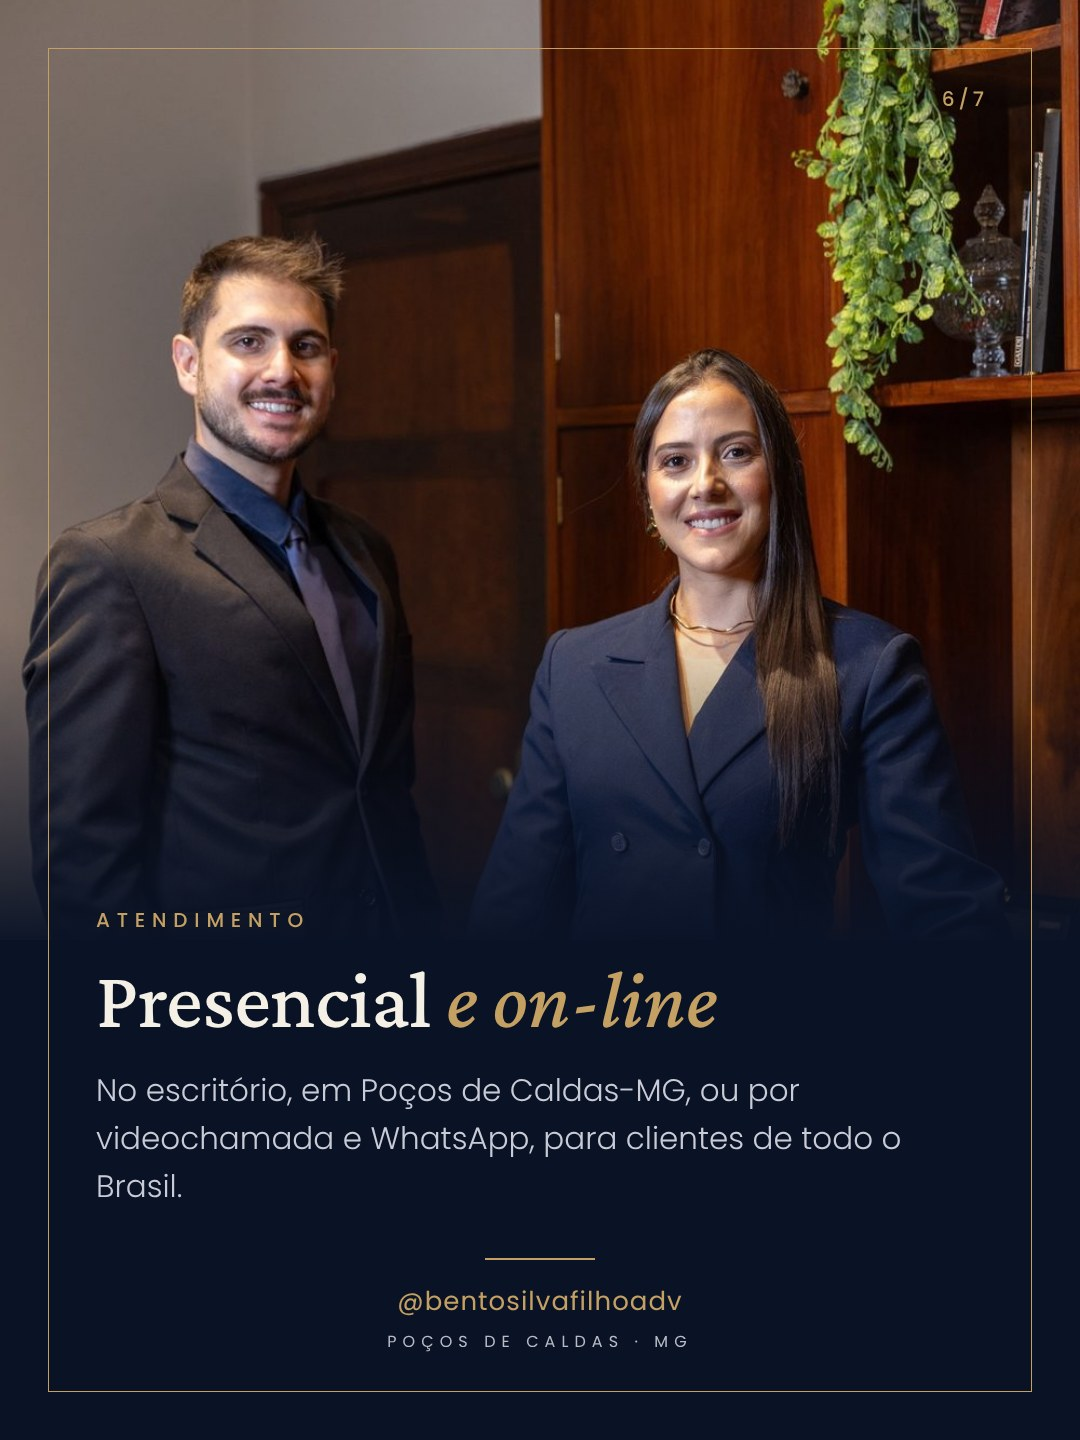
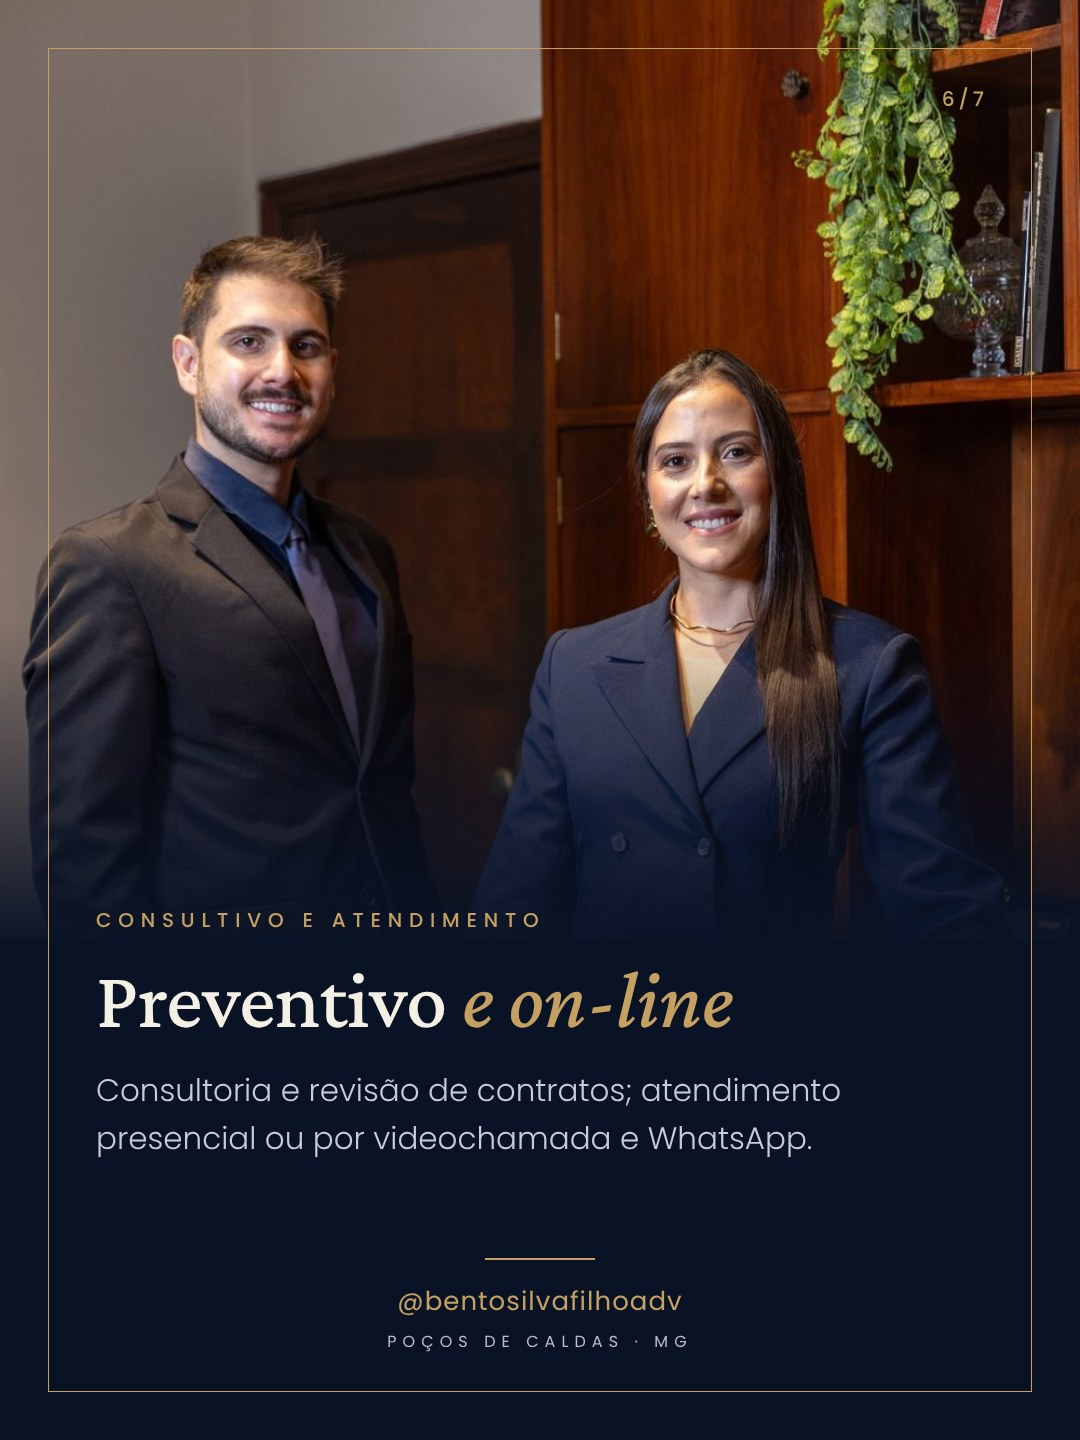
Carrossel fixado de 26/11 com todas as áreas; retirado o nome da sociedade atual do site
Claude-Session: https://claude.ai/code/session_019yFdNPbXaqafi1aGd5nU4B

Changed region(s): [[0.0917, 0.75, 0.825, 0.8438], [0.1833, 0.625, 0.6722, 0.7188], [0.0917, 0.625, 0.275, 0.6562]]

diff --git a/index.html b/index.html
@@ -448,7 +448,7 @@ a:focus-visible,button:focus-visible{outline:2px solid var(--gold);outline-offse
     <p>Bento &amp; Silva Filho Advogados · Av. Dr. David Benedito Ottoni, 645, sala 02 · Jardim dos Estados · Poços de Caldas-MG</p>
     <p><a href="politica-de-privacidade.html">Política de privacidade</a> · <a href="politica-de-privacidade.html#cookies" data-cookies>Cookies</a> · <a href="https://www.instagram.com/bentosilvafilhoadv/" target="_blank" rel="noopener">Instagram</a> · <a href="https://www.facebook.com/bentosilvafilhoadv" target="_blank" rel="noopener">Facebook</a> · <a href="https://www.linkedin.com/company/bentosilvafilhoadv/" target="_blank" rel="noopener">LinkedIn</a> · <a href="artigos.html">Artigos e notícias</a></p>
     <p class="guides">Orientações: <a href="voo-cancelado-atrasado/">Voo cancelado ou atrasado</a> · <a href="nome-negativado/">Nome negativado</a> · <a href="compra-de-imovel/">Compra de imóvel</a> · <a href="direitos-trabalhistas/">Direitos trabalhistas</a> · <a href="inventario/">Inventário</a> · <a href="holding-familiar/">Holding familiar</a> · <a href="acidente-de-transito/">Acidente de trânsito</a> · <a href="golpe-bancario/">Golpe e fraude bancária</a> · <a href="direito-de-familia/">Divórcio, guarda e pensão</a></p>
-    <p class="legal">Paulo César Silva Filho, OAB/MG 210.883, e Heloísa G. Bento Ferreira, OAB/MG 225.014 e OAB/SP 463.498. Paulo Cesar Filho Sociedade Individual de Advocacia, OAB/MG 22.728, CNPJ 66.440.951/0001-90. Conteúdo de caráter informativo, nos termos do Código de Ética e Disciplina da OAB e do Provimento nº 205/2021.</p>
+    <p class="legal">Paulo César Silva Filho, OAB/MG 210.883, e Heloísa G. Bento Ferreira, OAB/MG 225.014 e OAB/SP 463.498. Conteúdo de caráter informativo, nos termos do Código de Ética e Disciplina da OAB e do Provimento nº 205/2021.</p>
   </div>
 </footer>
 

diff --git a/politica-de-privacidade.html b/politica-de-privacidade.html
@@ -37,7 +37,7 @@ a{color:var(--gold-ink)}
 <p>Esta política explica como o site do Bento &amp; Silva Filho Advogados trata as informações das pessoas que o visitam ou que entram em contato com o escritório, em observância à Lei nº 13.709/2018 (Lei Geral de Proteção de Dados Pessoais, LGPD).</p>
 
 <h2>Quem é o responsável</h2>
-<p>O tratamento é realizado por Paulo Cesar Filho Sociedade Individual de Advocacia, registrada na OAB/MG sob o nº 22.728 e inscrita no CNPJ sob o nº 66.440.951/0001-90, e pelos advogados Paulo César Silva Filho (OAB/MG 210.883) e Heloísa G. Bento Ferreira (OAB/MG 225.014 e OAB/SP 463.498), que atuam sob a marca Bento &amp; Silva Filho Advogados, com endereço na Av. Dr. David Benedito Ottoni, 645, sala 02, Jardim dos Estados, Poços de Caldas-MG, CEP 37701-069.</p>
+<p>O tratamento é realizado pelos advogados Paulo César Silva Filho (OAB/MG 210.883) e Heloísa G. Bento Ferreira (OAB/MG 225.014 e OAB/SP 463.498), que atuam sob a marca Bento &amp; Silva Filho Advogados, com endereço na Av. Dr. David Benedito Ottoni, 645, sala 02, Jardim dos Estados, Poços de Caldas-MG, CEP 37701-069.</p>
 <p>Canal de atendimento ao titular e para assuntos de privacidade (encarregado): <a href="mailto:contato@bentosilvafilho.com.br">contato@bentosilvafilho.com.br</a>.</p>
 
 <h2>Quais dados tratamos</h2>
